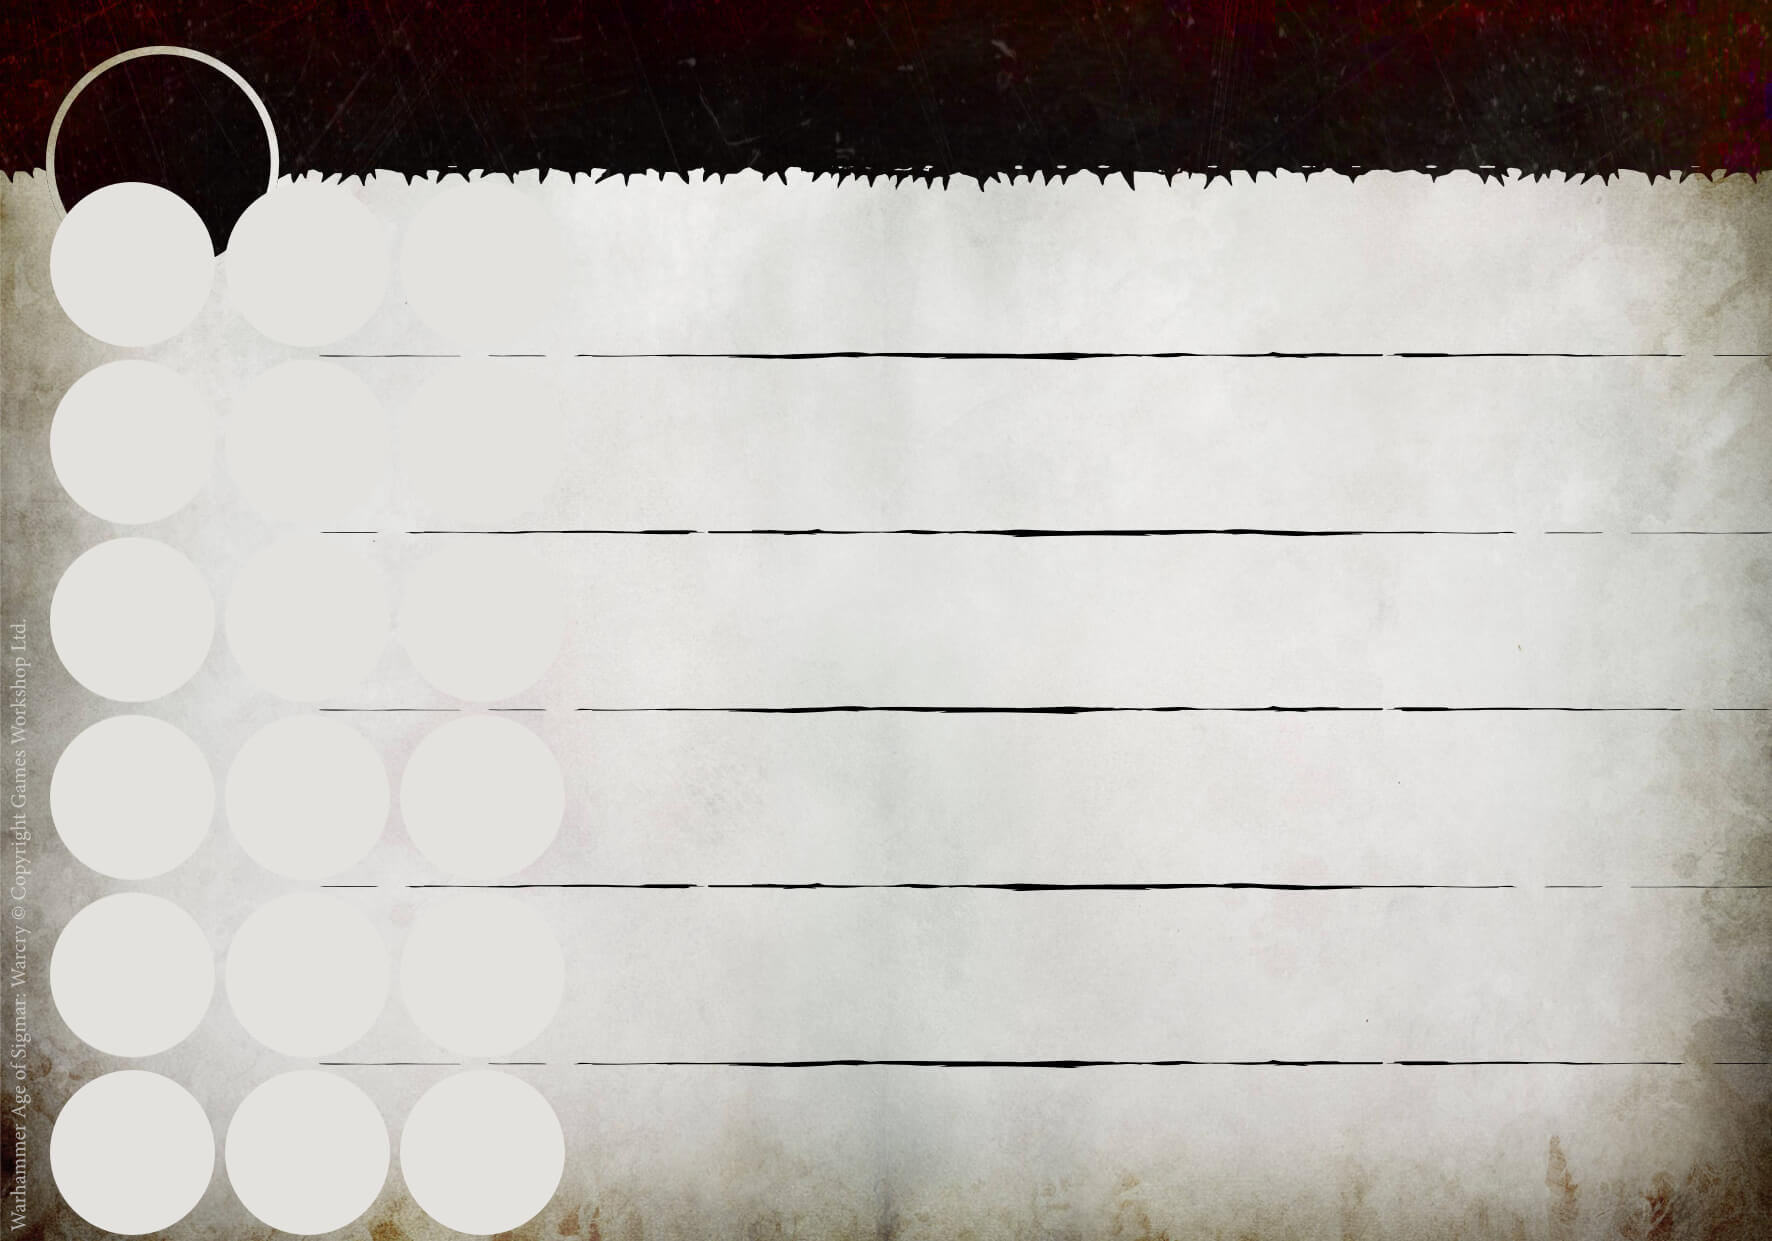
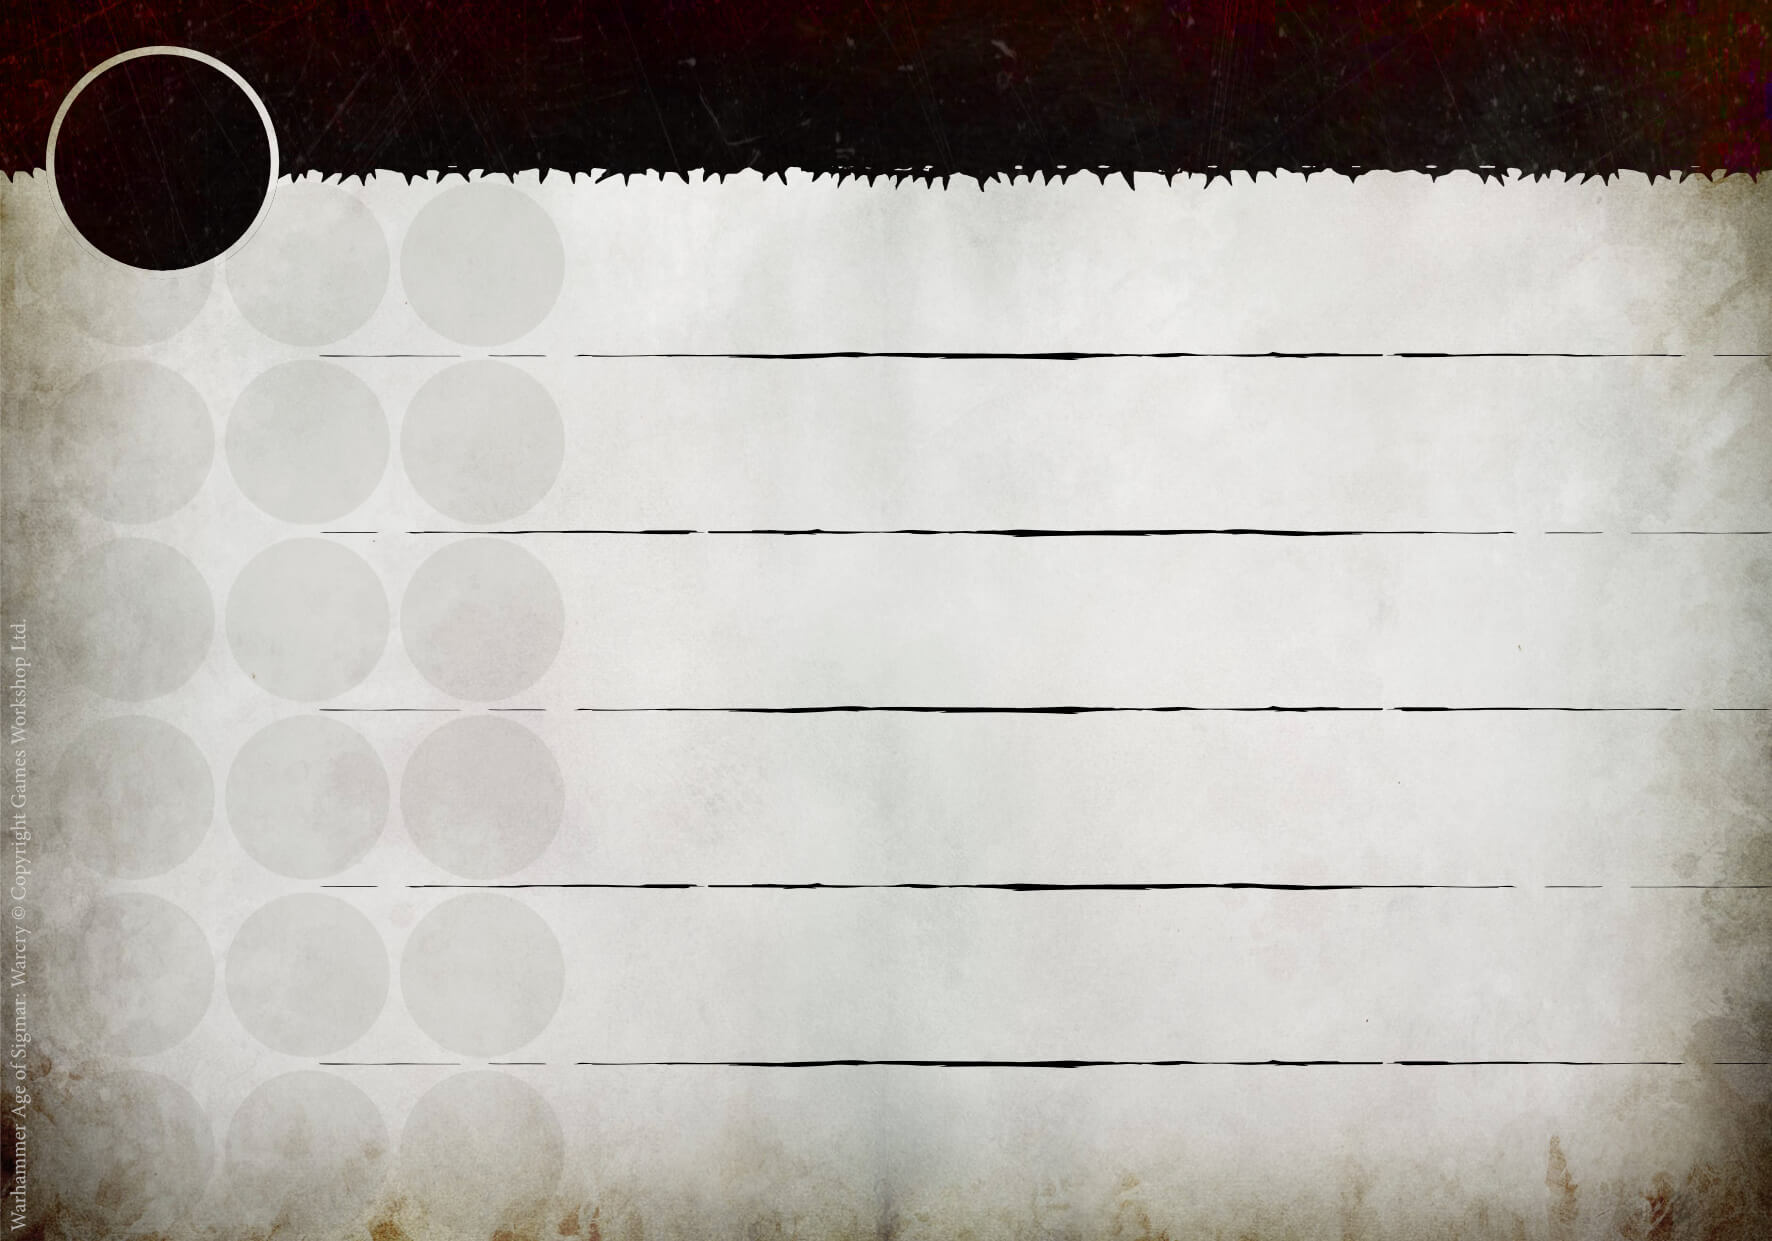
work in progress, editing faction runemark selection

Changed region(s): [[0.031, 0.1225, 0.3414, 1.0], [0.1862, 0.5205, 0.3104, 0.7043]]

diff --git a/_includes/abilities/section-abilities.html b/_includes/abilities/section-abilities.html
@@ -15,6 +15,7 @@
                 <div class="card">
                     <div class="card-header" id="abilitiesHeadingThreeOne">
                         <h2 class="h5">
+                            <input checked id="ability1-toggle" oninput="onAnyChange()" type="checkbox">
                             <button class="btn btn-link" data-toggle="collapse" data-target="#abilitiesCollapseThreeOne" aria-expanded="false" aria-controls="abilitiesCollapseThreeOne">
                                 First
                             </button>
@@ -64,6 +65,7 @@
                 <div class="card">
                     <div class="card-header" id="abilitiesHeadingThreeTwo">
                         <h2 class="h5">
+                            <input checked id="ability2-toggle" oninput="onAnyChange()" type="checkbox">
                             <button class="btn btn-link" data-toggle="collapse" data-target="#abilitiesCollapseThreeTwo" aria-expanded="false" aria-controls="abilitiesCollapseThreeTwo">
                                 Second
                             </button>
@@ -113,6 +115,7 @@
                 <div class="card">
                     <div class="card-header" id="abilitiesHeadingThreeThree">
                         <h2 class="h5">
+                            <input checked id="ability3-toggle" oninput="onAnyChange()" type="checkbox">
                             <button class="btn btn-link" data-toggle="collapse" data-target="#abilitiesCollapseThreeThree" aria-expanded="false" aria-controls="abilitiesCollapseThreeThree">
                                 Third
                             </button>
@@ -162,6 +165,7 @@
                 <div class="card">
                     <div class="card-header" id="abilitiesHeadingThreeFour">
                         <h2 class="h5">
+                            <input checked id="ability4-toggle" oninput="onAnyChange()" type="checkbox">
                             <button class="btn btn-link" data-toggle="collapse" data-target="#abilitiesCollapseThreeFour" aria-expanded="false" aria-controls="abilitiesCollapseThreeFour">
                                 Fourth
                             </button>
@@ -211,6 +215,7 @@
                 <div class="card">
                     <div class="card-header" id="abilitiesHeadingThreeFifth">
                         <h2 class="h5">
+                            <input checked id="ability5-toggle" oninput="onAnyChange()" type="checkbox">
                             <button class="btn btn-link" data-toggle="collapse" data-target="#abilitiesCollapseThreeFifth" aria-expanded="false" aria-controls="abilitiesCollapseThreeFifth">
                                 Fifth
                             </button>
@@ -260,6 +265,7 @@
                 <div class="card">
                     <div class="card-header" id="abilitiesHeadingThreeSixth">
                         <h2 class="h5">
+                            <input checked id="ability6-toggle" oninput="onAnyChange()" type="checkbox">
                             <button class="btn btn-link" data-toggle="collapse" data-target="#abilitiesCollapseThreeSixth" aria-expanded="false" aria-controls="abilitiesCollapseThreeSixth">
                                 Sixth
                             </button>

diff --git a/assets/js/abilities.js b/assets/js/abilities.js
@@ -539,11 +539,32 @@ function readControls()
     return data;
 }
 
-function drawFactionRunemark(image)
-{
-    var position = scalePixelPosition({x: 67.5, y: 67.5});
-    var size = scalePixelPosition({x: 190, y: 190});
-    drawImageSrc(position, size, image);
+function drawFactionRunemark(image) {
+    drawImageSrc({x: 67.5, y: 67.5}, {x: 190, y: 190}, image);
+
+    if (document.getElementById('ability1-toggle').checked) {
+        drawImageSrc({x: 400, y: 185}, {x: 160, y: 160}, image);
+    }
+
+    if (document.getElementById('ability2-toggle').checked) {
+        drawImageSrc({x: 400, y: 362.5}, {x: 160, y: 160}, image);
+    }
+
+    if (document.getElementById('ability3-toggle').checked) {
+        drawImageSrc({x: 400, y: 540}, {x: 160, y: 160}, image);
+    }
+
+    if (document.getElementById('ability4-toggle').checked) {
+        drawImageSrc({x: 400, y: 717.5}, {x: 160, y: 160}, image);
+    }
+
+    if (document.getElementById('ability5-toggle').checked) {
+        drawImageSrc({x: 400, y: 895}, {x: 160, y: 160}, image);
+    }
+
+    if (document.getElementById('ability6-toggle').checked) {
+        drawImageSrc({x: 400, y: 1072.5}, {x: 160, y: 160}, image);
+    }
 }
 
 render = function(fighterData) {
@@ -569,12 +590,29 @@ render = function(fighterData) {
 
     // drawToughness(fighterData.toughness);
 
-    drawAbility(1, {x: 600, y:  225});
-    drawAbility(2, {x: 600, y:  400});
-    drawAbility(3, {x: 600, y:  575});
-    drawAbility(4, {x: 600, y:  750});
-    drawAbility(5, {x: 600, y:  925});
-    drawAbility(6, {x: 600, y: 1100});
+    if (document.getElementById('ability1-toggle').checked) {
+        drawAbility(1, {x: 600, y:  225});
+    }
+
+    if (document.getElementById('ability2-toggle').checked) {
+        drawAbility(2, {x: 600, y:  400});
+    }
+
+    if (document.getElementById('ability3-toggle').checked) {
+        drawAbility(3, {x: 600, y:  575});
+    }
+
+    if (document.getElementById('ability4-toggle').checked) {
+        drawAbility(4, {x: 600, y:  750});
+    }
+
+    if (document.getElementById('ability5-toggle').checked) {
+        drawAbility(5, {x: 600, y:  925});
+    }
+
+    if (document.getElementById('ability6-toggle').checked) {
+        drawAbility(6, {x: 600, y: 1100});
+    }
 
     // getContext().textBaseline = "middle";
     // getContext().textAlign = "center";
